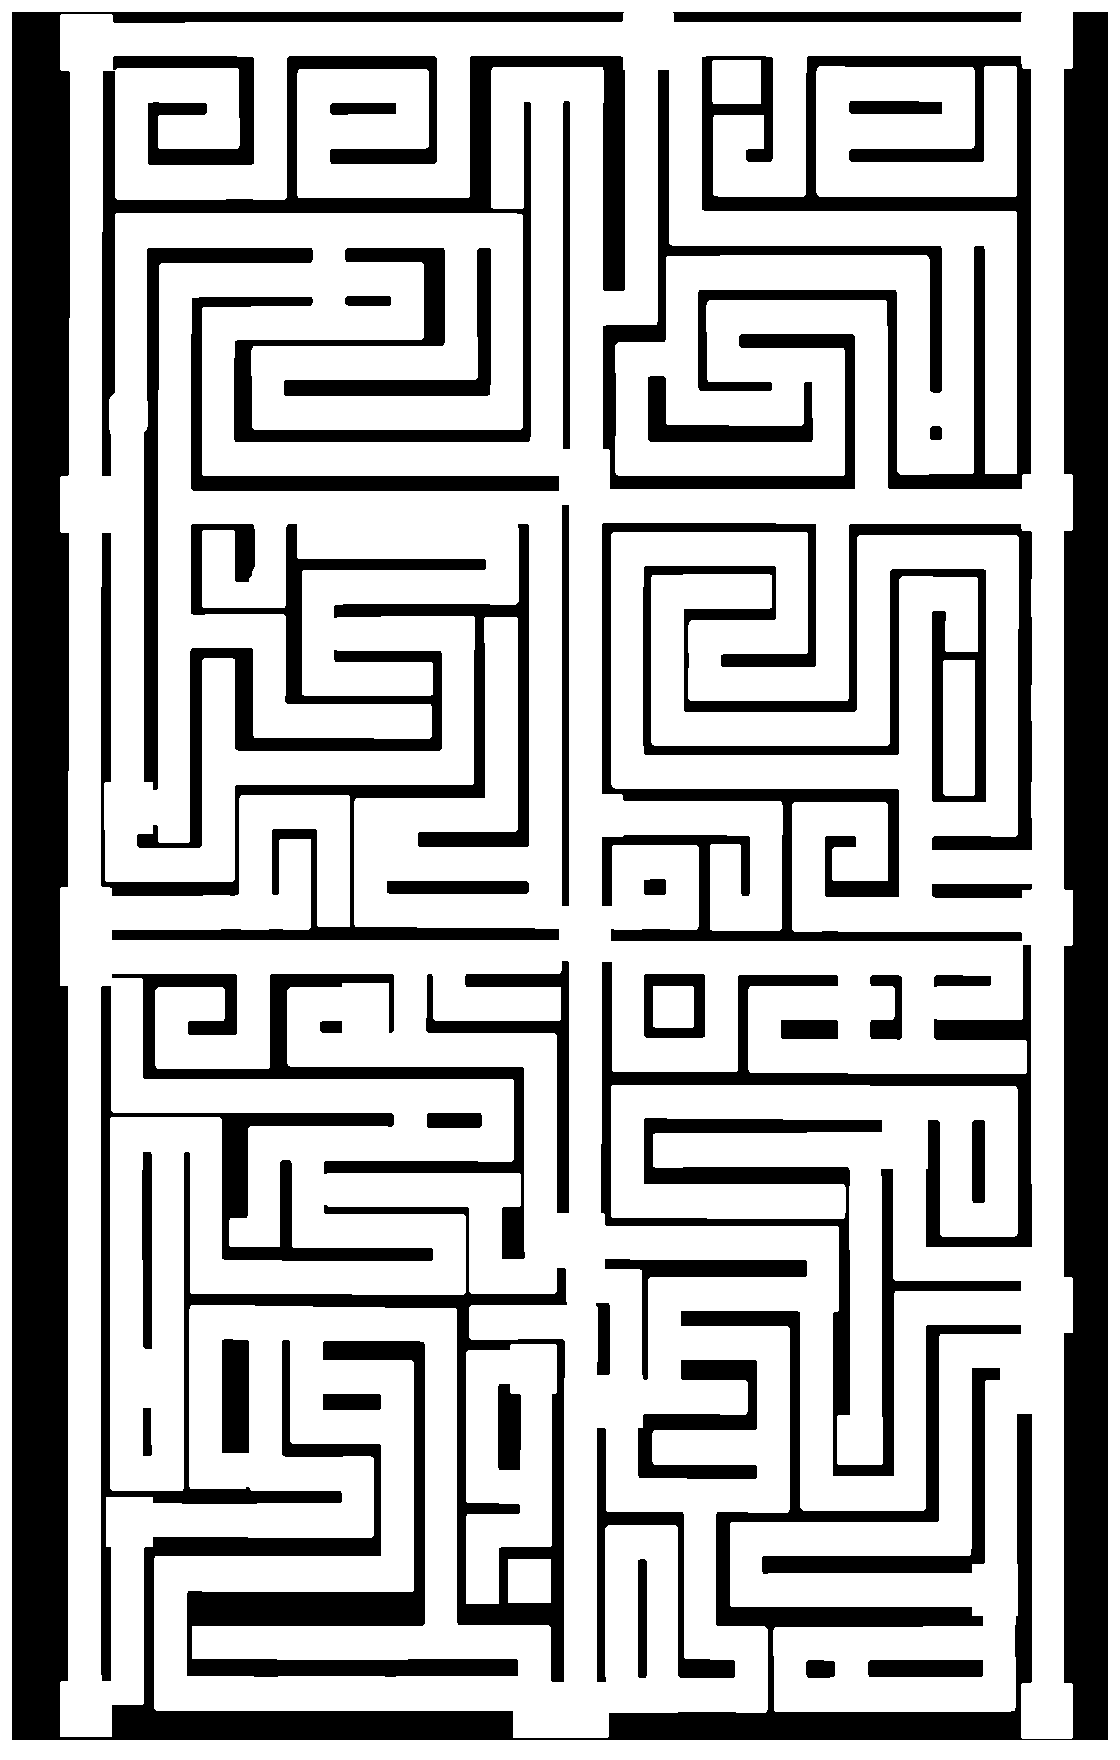
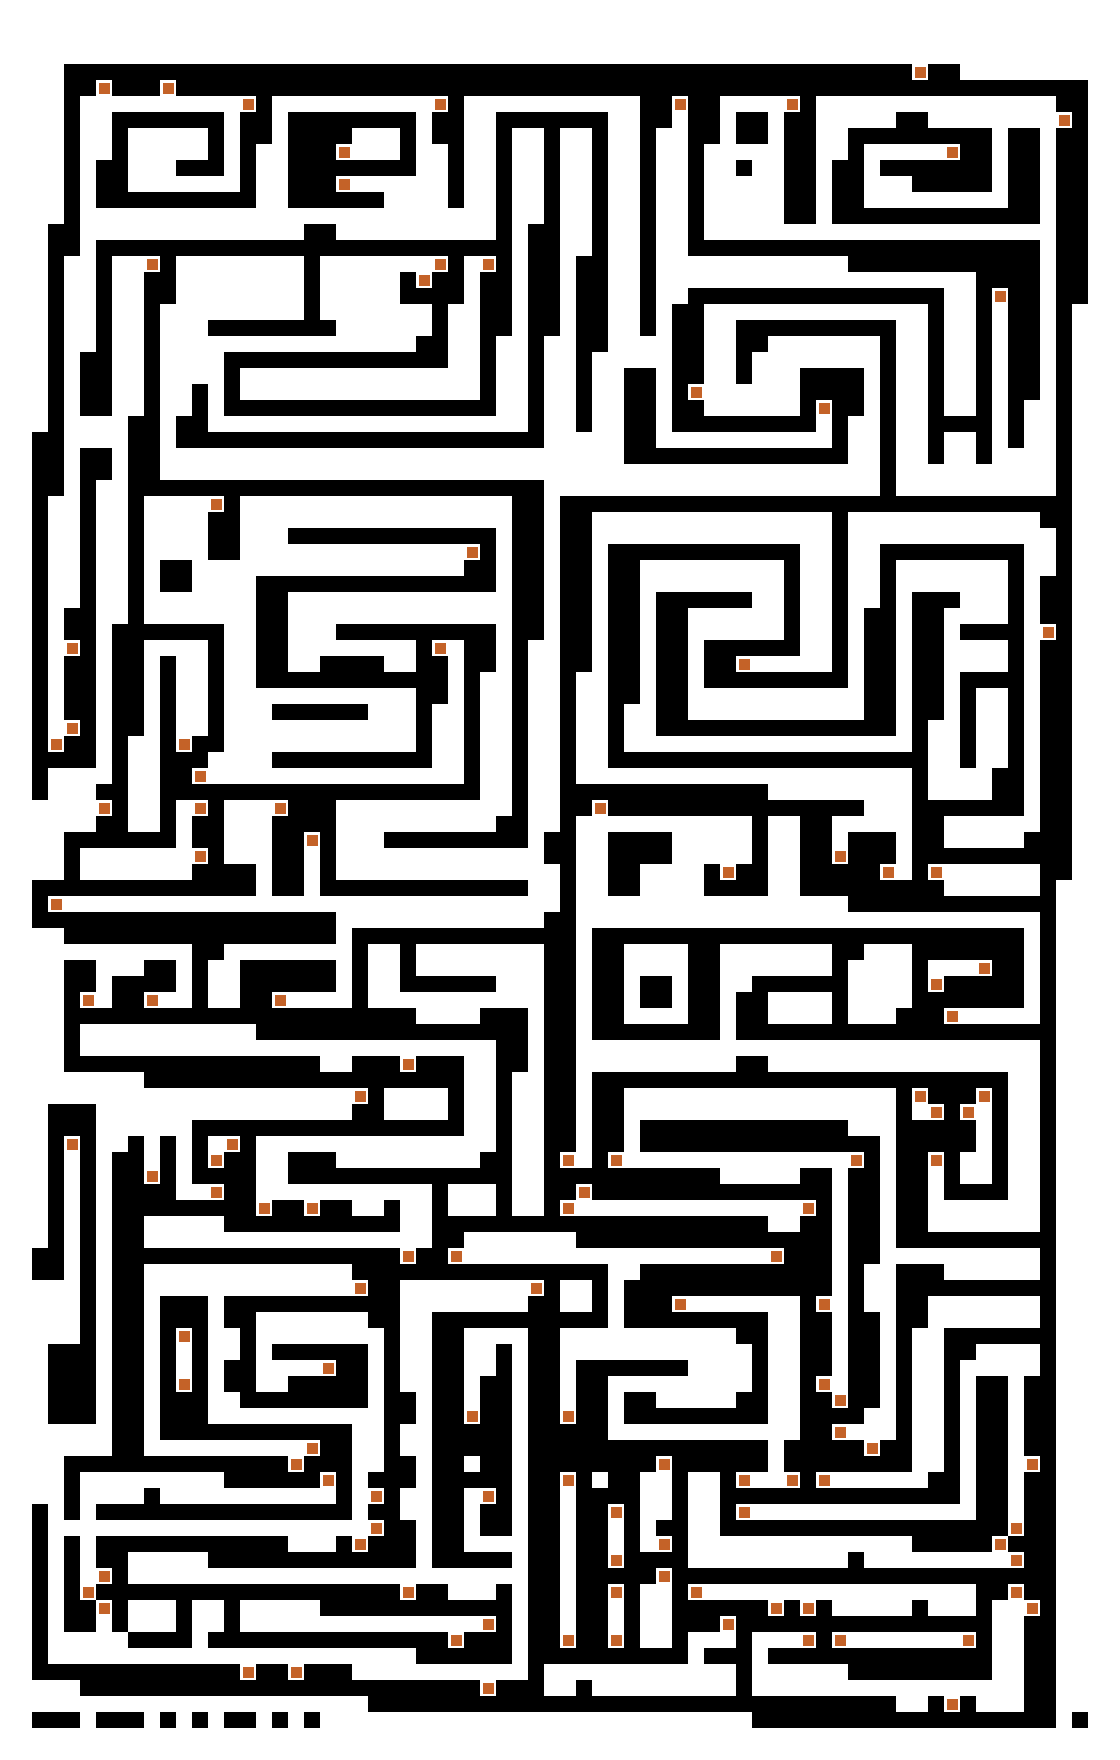
Ahnenraster: Stegdicke ~1:1 wie Foto (2-mm-Zellen)
Haarlinien ersetzt durch Foto-Quantisierung; Weiß=Steg, Formatblatt dunkler Hintergrund.

diff --git a/src/components/hundredGeneration/HundredGenerationAhnenrasterBlatt.tsx b/src/components/hundredGeneration/HundredGenerationAhnenrasterBlatt.tsx
@@ -75,7 +75,7 @@ export function HundredGenerationAhnenrasterBlatt({
         {b.title} · {b.subtitle}
       </h2>
       <p style={{ margin: '0 0 0.85rem', color: muted, fontSize: '0.92rem', lineHeight: 1.45 }}>
-        Linien + Stopps – daneben das Foto zur Kontrolle. CNC erst nach Freigabe.
+        Stegdicke wie Foto (~1:1). Weiß = erhaben, Schwarz = Rille. CNC erst nach Freigabe.
       </p>
 
       <div
@@ -93,19 +93,19 @@ export function HundredGenerationAhnenrasterBlatt({
             border: `1px solid ${frame}`,
             borderRadius: 8,
             overflow: 'hidden',
-            background: isPrint ? '#fffefb' : '#f4efe6',
+            background: '#0a0a0a',
           }}
         >
           <img
-            src={geometrieSrc}
-            alt="Ahnenraster – exakte geometrische Zeichnung (orthogonal)"
+            src={`${geometrieSrc}?v=steg1zu1`}
+            alt="Ahnenraster – Weiß=Steg ~1:1 wie Foto, Schwarz=Zwischenraum"
             style={{
               display: 'block',
               width: '100%',
               maxHeight: isPrint ? '155mm' : '26rem',
               objectFit: 'contain',
               margin: '0 auto',
-              background: '#fffefb',
+              background: '#000',
             }}
           />
           <figcaption
@@ -117,7 +117,7 @@ export function HundredGenerationAhnenrasterBlatt({
               background: isPrint ? '#f7f4ef' : 'rgba(0,0,0,0.08)',
             }}
           >
-            Weiß = erhaben · Schwarz = Zwischenraum · 2‑/10‑mm‑Raster · Platte H{' '}
+            Weiß = Steg (~1:1 wie Foto) · Schwarz = Zwischenraum · 2‑mm‑Zellen · Platte H{' '}
             {b.panelHoeheCm} · B {b.panelBreiteCm} cm
           </figcaption>
         </figure>

diff --git a/docs/DIALOG-STAND.md b/docs/DIALOG-STAND.md
@@ -1,11 +1,11 @@
 # Dialog-Stand
 
-**Was wir JETZT tun:** Ahnenraster-Zeichnung – Polarität Weiß=Steg prüfen; Herkunft des Musters erklärt.
+**Was wir JETZT tun:** Ahnenraster – Stegdicke ~1:1 wie Foto (2-mm-Zellen aus Foto).
 
-**Einordnung:** 4M-Labyrinth kam aus KI-Modellbild (kein CAD). Zeichnung neu: weiß=erhaben, schwarz=Zwischenraum, unten geschlossen. CNC weiter pausiert.
+**Einordnung:** Dünne Haarlinien = unbrauchbar (Georg). Neu: Foto → 70×110 Zellen, Weiß=Steg, Schwarz=Rille, Anteil ~1:1.
 
-**Nächster Schritt:** Georg: Vergleich neu laden – Stege weiß? Unten zu? Dann Freigabe oder Korrekturpunkte.
+**Nächster Schritt:** Georg Formatblatt neu laden – Dicke ok? Dann Freigabe oder Korrektur.
 
-**Letzter Stand:** 11.09.26 – Polarität neu + Herkunft dokumentiert (`AHNENRASTER-HERKUNFT.txt`).
+**Letzter Stand:** 11.09.26 – 1:1-Stegstärke aus Foto-Zellen.
 
 ---
